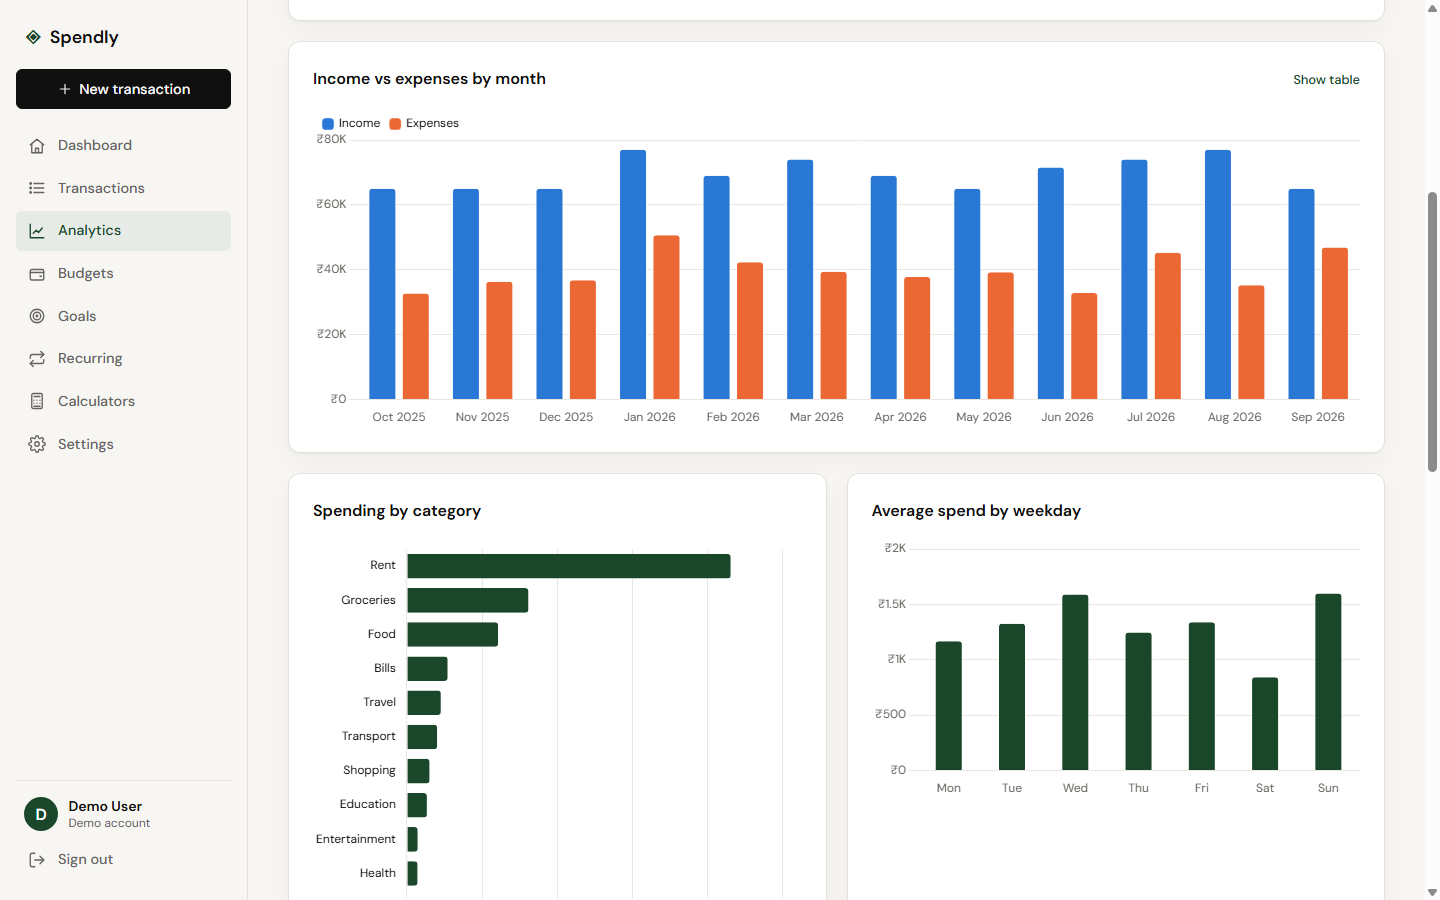
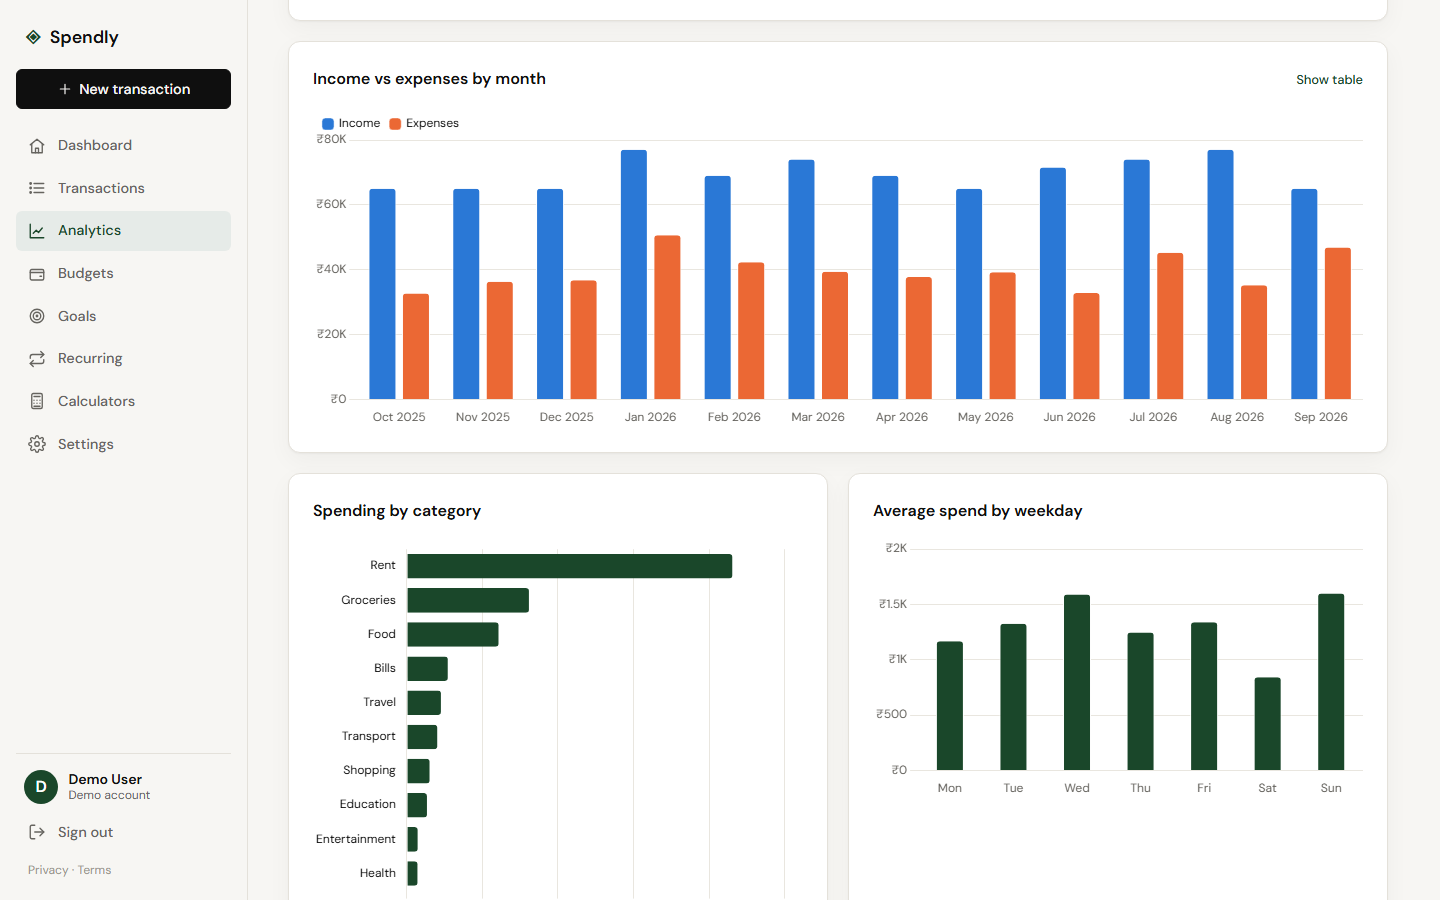
Refresh README with live link and screenshot gallery
- Live app link and badges at the top
- 13 fresh screenshots: desktop pages across themes, dark/light,
  account recovery, and a mobile row
- Fix double gap between stacked form fields on mobile
- Keep the public footer dark in dark mode

diff --git a/static/css/style.css b/static/css/style.css
@@ -350,7 +350,7 @@ code, pre { font-family: ui-monospace, 'Cascadia Code', Menlo, monospace; font-s
 select.form-input { appearance: none; background-image: linear-gradient(45deg, transparent 50%, var(--ink-muted) 50%), linear-gradient(135deg, var(--ink-muted) 50%, transparent 50%); background-position: calc(100% - 18px) 50%, calc(100% - 13px) 50%; background-size: 5px 5px; background-repeat: no-repeat; padding-right: 2.25rem; }
 .input-sm { min-height: 36px; padding: 0.4rem 0.7rem; font-size: 0.95rem; }
 .input-amount { font-size: 1.5rem; font-weight: 600; font-variant-numeric: tabular-nums; min-height: 56px; }
-.form-row { display: grid; grid-template-columns: 1fr 1fr; gap: 1rem; }
+.form-row { display: grid; grid-template-columns: 1fr 1fr; gap: 0 1rem; }
 .form-actions { display: flex; gap: 0.75rem; flex-wrap: wrap; margin-top: 0.5rem; }
 .checkbox { display: flex; align-items: center; gap: 0.5rem; font-size: 0.875rem; color: var(--ink-soft); margin-bottom: 1rem; cursor: pointer; }
 .checkbox input { width: 16px; height: 16px; accent-color: var(--accent); }
@@ -654,8 +654,8 @@ select.form-input { appearance: none; background-image: linear-gradient(45deg, t
 .sidebar-legal { font-size: 0.75rem; color: var(--ink-faint); padding: 0 0.75rem; }
 .sidebar-legal a:hover { color: var(--ink); }
 .footer-links { display: flex; gap: 1.25rem; margin-top: 0.75rem; font-size: 0.8rem; }
-.footer-links a { color: var(--ink-faint); }
-.footer-links a:hover { color: var(--paper); }
+.footer-links a { color: #9a978f; }
+.footer-links a:hover { color: #f7f6f3; }
 .legal { max-width: 720px; }
 .legal .page-title { margin-bottom: 1rem; }
 .legal .lead { font-size: 1.05rem; color: var(--ink-soft); margin-bottom: 1.5rem; }
@@ -686,11 +686,12 @@ select.form-input { appearance: none; background-image: linear-gradient(45deg, t
 /* Footer                                                              */
 /* ------------------------------------------------------------------ */
 
-.footer { background: var(--ink); color: var(--paper); padding: 2.5rem 2rem; text-align: center; }
+/* The footer stays dark in both modes (an inverted footer glows in dark mode). */
+.footer { background: #0f0f0f; color: #f7f6f3; padding: 2.5rem 2rem; text-align: center; border-top: 1px solid var(--border); }
 .footer-inner { display: flex; flex-direction: column; align-items: center; gap: 0.4rem; }
 .footer .brand-icon { color: var(--accent-2); font-size: 1.5rem; }
 .footer-name { font-weight: 600; font-size: 1rem; }
-.footer-copy { font-size: 0.8rem; color: var(--ink-faint); }
+.footer-copy { font-size: 0.8rem; color: #9a978f; }
 
 /* ------------------------------------------------------------------ */
 /* Responsive                                                          */

diff --git a/README.md b/README.md
@@ -1,23 +1,55 @@
-# ◈ Spendly — Personal Finance Tracker
+<div align="center">
 
-Track every rupee. Spendly is a full-stack personal finance app for logging expenses and income,
-setting budgets, analysing past spending, planning savings goals and running "what if" calculations —
-with editable themes, dark mode and a mobile-first layout.
+# ◈ Spendly
 
-![tests](https://github.com/NIRMALKANDEL/Spendly/actions/workflows/tests.yml/badge.svg)
-![python](https://img.shields.io/badge/python-3.12-blue)
-![flask](https://img.shields.io/badge/flask-3.1-black)
+**Track every rupee. Own your finances.**
 
-| Dashboard (dark) | Analytics (light) |
+A full-stack personal finance tracker — log expenses and income, set budgets, analyse past spending,
+plan savings goals and run “what if” calculations. Editable themes, dark mode, and built mobile-first.
+
+### 🌐 [Live app → devnirmal.pythonanywhere.com](https://devnirmal.pythonanywhere.com)
+
+[![Live demo](https://img.shields.io/badge/live%20demo-devnirmal.pythonanywhere.com-1a472a?style=for-the-badge)](https://devnirmal.pythonanywhere.com)
+
+![python](https://img.shields.io/badge/python-3.12-3776AB?logo=python&logoColor=white)
+![flask](https://img.shields.io/badge/flask-3.1-000000?logo=flask)
+![sqlite](https://img.shields.io/badge/sqlite-003B57?logo=sqlite&logoColor=white)
+![chart.js](https://img.shields.io/badge/chart.js-4-FF6384?logo=chartdotjs&logoColor=white)
+![tests](https://img.shields.io/badge/tests-150%20passing-2ea44f)
+![coverage](https://img.shields.io/badge/coverage-96%25-2ea44f)
+![license](https://img.shields.io/badge/license-MIT-blue)
+
+[Features](#features) · [Screenshots](#screenshots) · [Security](#security) · [Tech stack](#tech-stack) ·
+[Run locally](#run-locally) · [Deploy](#deploy)
+
+</div>
+
+> **Try it without signing up:** open the [live app](https://devnirmal.pythonanywhere.com) and click
+> **“Try the live demo”**. You get a private sandbox with a year of realistic sample data (auto-deleted after 24 hours).
+
+![Spendly dashboard in dark mode](docs/dashboard-dark.png)
+
+---
+
+## Screenshots
+
+### Desktop
+
+| Analytics — trends, categories, weekdays | Transactions — search, filter, export |
 |---|---|
-| ![Dashboard](docs/dashboard-dark.png) | ![Analytics](docs/analytics-light.png) |
+| ![Analytics](docs/analytics-light.png) | ![Transactions](docs/transactions-light.png) |
+| **Budgets — overall + per category (Plum, dark)** | **Savings goals (Terracotta theme)** |
+| ![Budgets](docs/budgets-dark.png) | ![Goals](docs/goals-light.png) |
+| **Calculators — growth, goals, EMI** | **Editable themes & dark mode** |
+| ![Calculators](docs/calculators.png) | ![Theme settings](docs/themes.png) |
+| **Landing page** | **Account recovery** |
+| ![Landing](docs/landing.png) | ![Forgot password](docs/forgot-password.png) |
 
-| Mobile dashboard | Mobile goals | Landing |
-|---|---|---|
-| <img src="docs/mobile-dashboard.png" width="240"> | <img src="docs/mobile-goals.png" width="240"> | <img src="docs/landing.png" width="420"> |
+### Mobile
 
-> **Try it without signing up:** click **“Try the live demo”** on the landing page. It creates a private
-> sandbox account with a year of realistic sample data (auto-deleted after 24 hours).
+| Dashboard | Add transaction | Analytics | Goals |
+|---|---|---|---|
+| <img src="docs/mobile-dashboard.png" width="200" alt="Mobile dashboard"> | <img src="docs/mobile-add.png" width="200" alt="Mobile add transaction"> | <img src="docs/mobile-analytics.png" width="200" alt="Mobile analytics"> | <img src="docs/mobile-goals.png" width="200" alt="Mobile goals"> |
 
 ---
 
